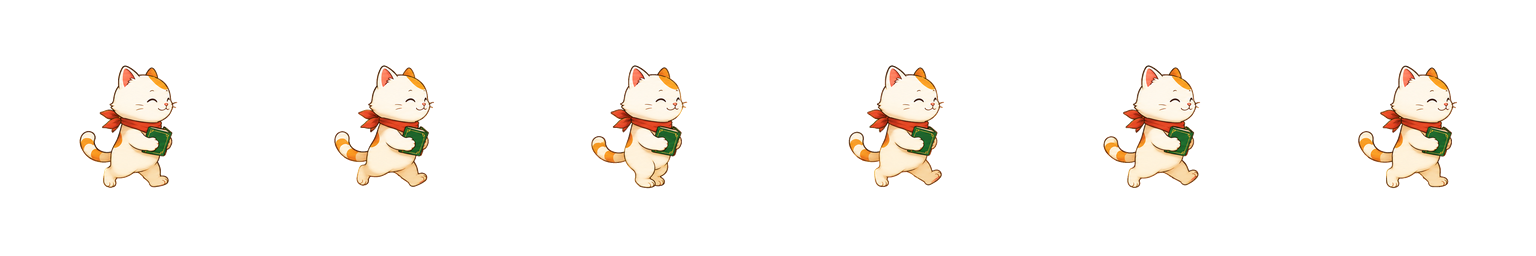
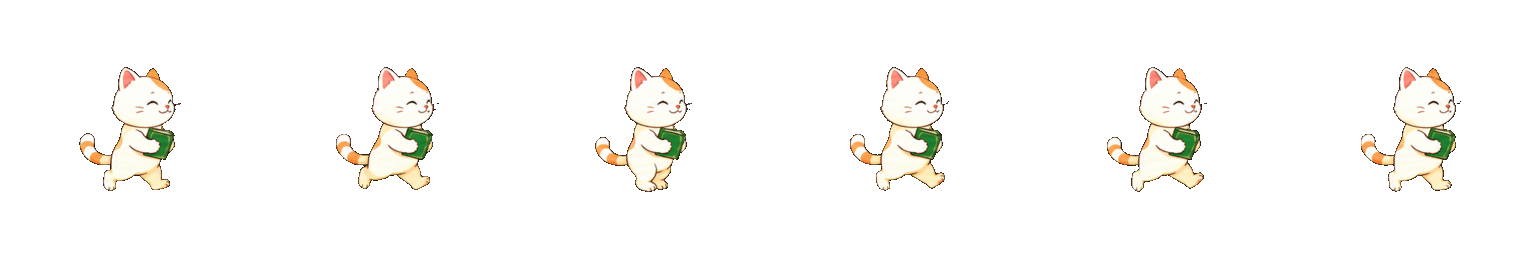
fix(cat): remove baked red scarf from mascot

diff --git a/test/cat-accessories.test.js b/test/cat-accessories.test.js
@@ -1,15 +1,23 @@
 import { describe, it, expect } from "vitest";
 import { readFileSync } from "node:fs";
+import { createHash } from "node:crypto";
 import { dirname, join } from "node:path";
 import { fileURLToPath } from "node:url";
 
 const GAME = join(dirname(fileURLToPath(import.meta.url)), "..");
 const catSource = readFileSync(join(GAME, "src", "cat.js"), "utf8");
+const assetHash = file => createHash("sha256")
+  .update(readFileSync(join(GAME, "assets", file))).digest("hex");
 
 describe("authored cat artwork", () => {
   it("does not paint milestone costume primitives over the sprite sheets", () => {
     expect(catSource).not.toContain("drawAccessories");
     expect(catSource).not.toMatch(/acc\.has\(["'](?:scarf|coin|outfit|emperor)["']\)/);
     expect(catSource).not.toContain('fillStyle = "#b3262a"');
+  });
+
+  it("locks the scarf-free default mascot sheets", () => {
[2 lines of base64/hex data omitted]
   });
 });

diff --git a/sw.js b/sw.js
@@ -6,7 +6,7 @@
 // One release version owns every cache. Keeping runtime/audio on older names
 // lets cache-first optional art and regenerated MP3s survive a shell release
 // indefinitely, so all three advance together.
-const CACHE_VERSION = "v104";
+const CACHE_VERSION = "v105";
 const SHELL = `nbhsk-shell-${CACHE_VERSION}`;
 const RUNTIME = `nbhsk-runtime-${CACHE_VERSION}`;
 const AUDIO = `nbhsk-audio-${CACHE_VERSION}`;

diff --git a/test/sw-precache.test.js b/test/sw-precache.test.js
@@ -87,7 +87,7 @@ describe("sw.js precache list", () => {
       "assets/cat-astronaut-walk.png", "assets/bg-island-sunset.png",
       "assets/deco-noodle-stall.png", "assets/landmark-tailor.png", "assets/tile-arcade.png",
     ]) expect(precacheSet.has(entry), entry).toBe(false);
-    expect(swSrc).toContain('const CACHE_VERSION = "v104"');
+    expect(swSrc).toContain('const CACHE_VERSION = "v105"');
     expect(swSrc).toContain("const RUNTIME = `nbhsk-runtime-${CACHE_VERSION}`");
     expect(swSrc).toContain("cacheAfterFetch(RUNTIME, request)");
   });